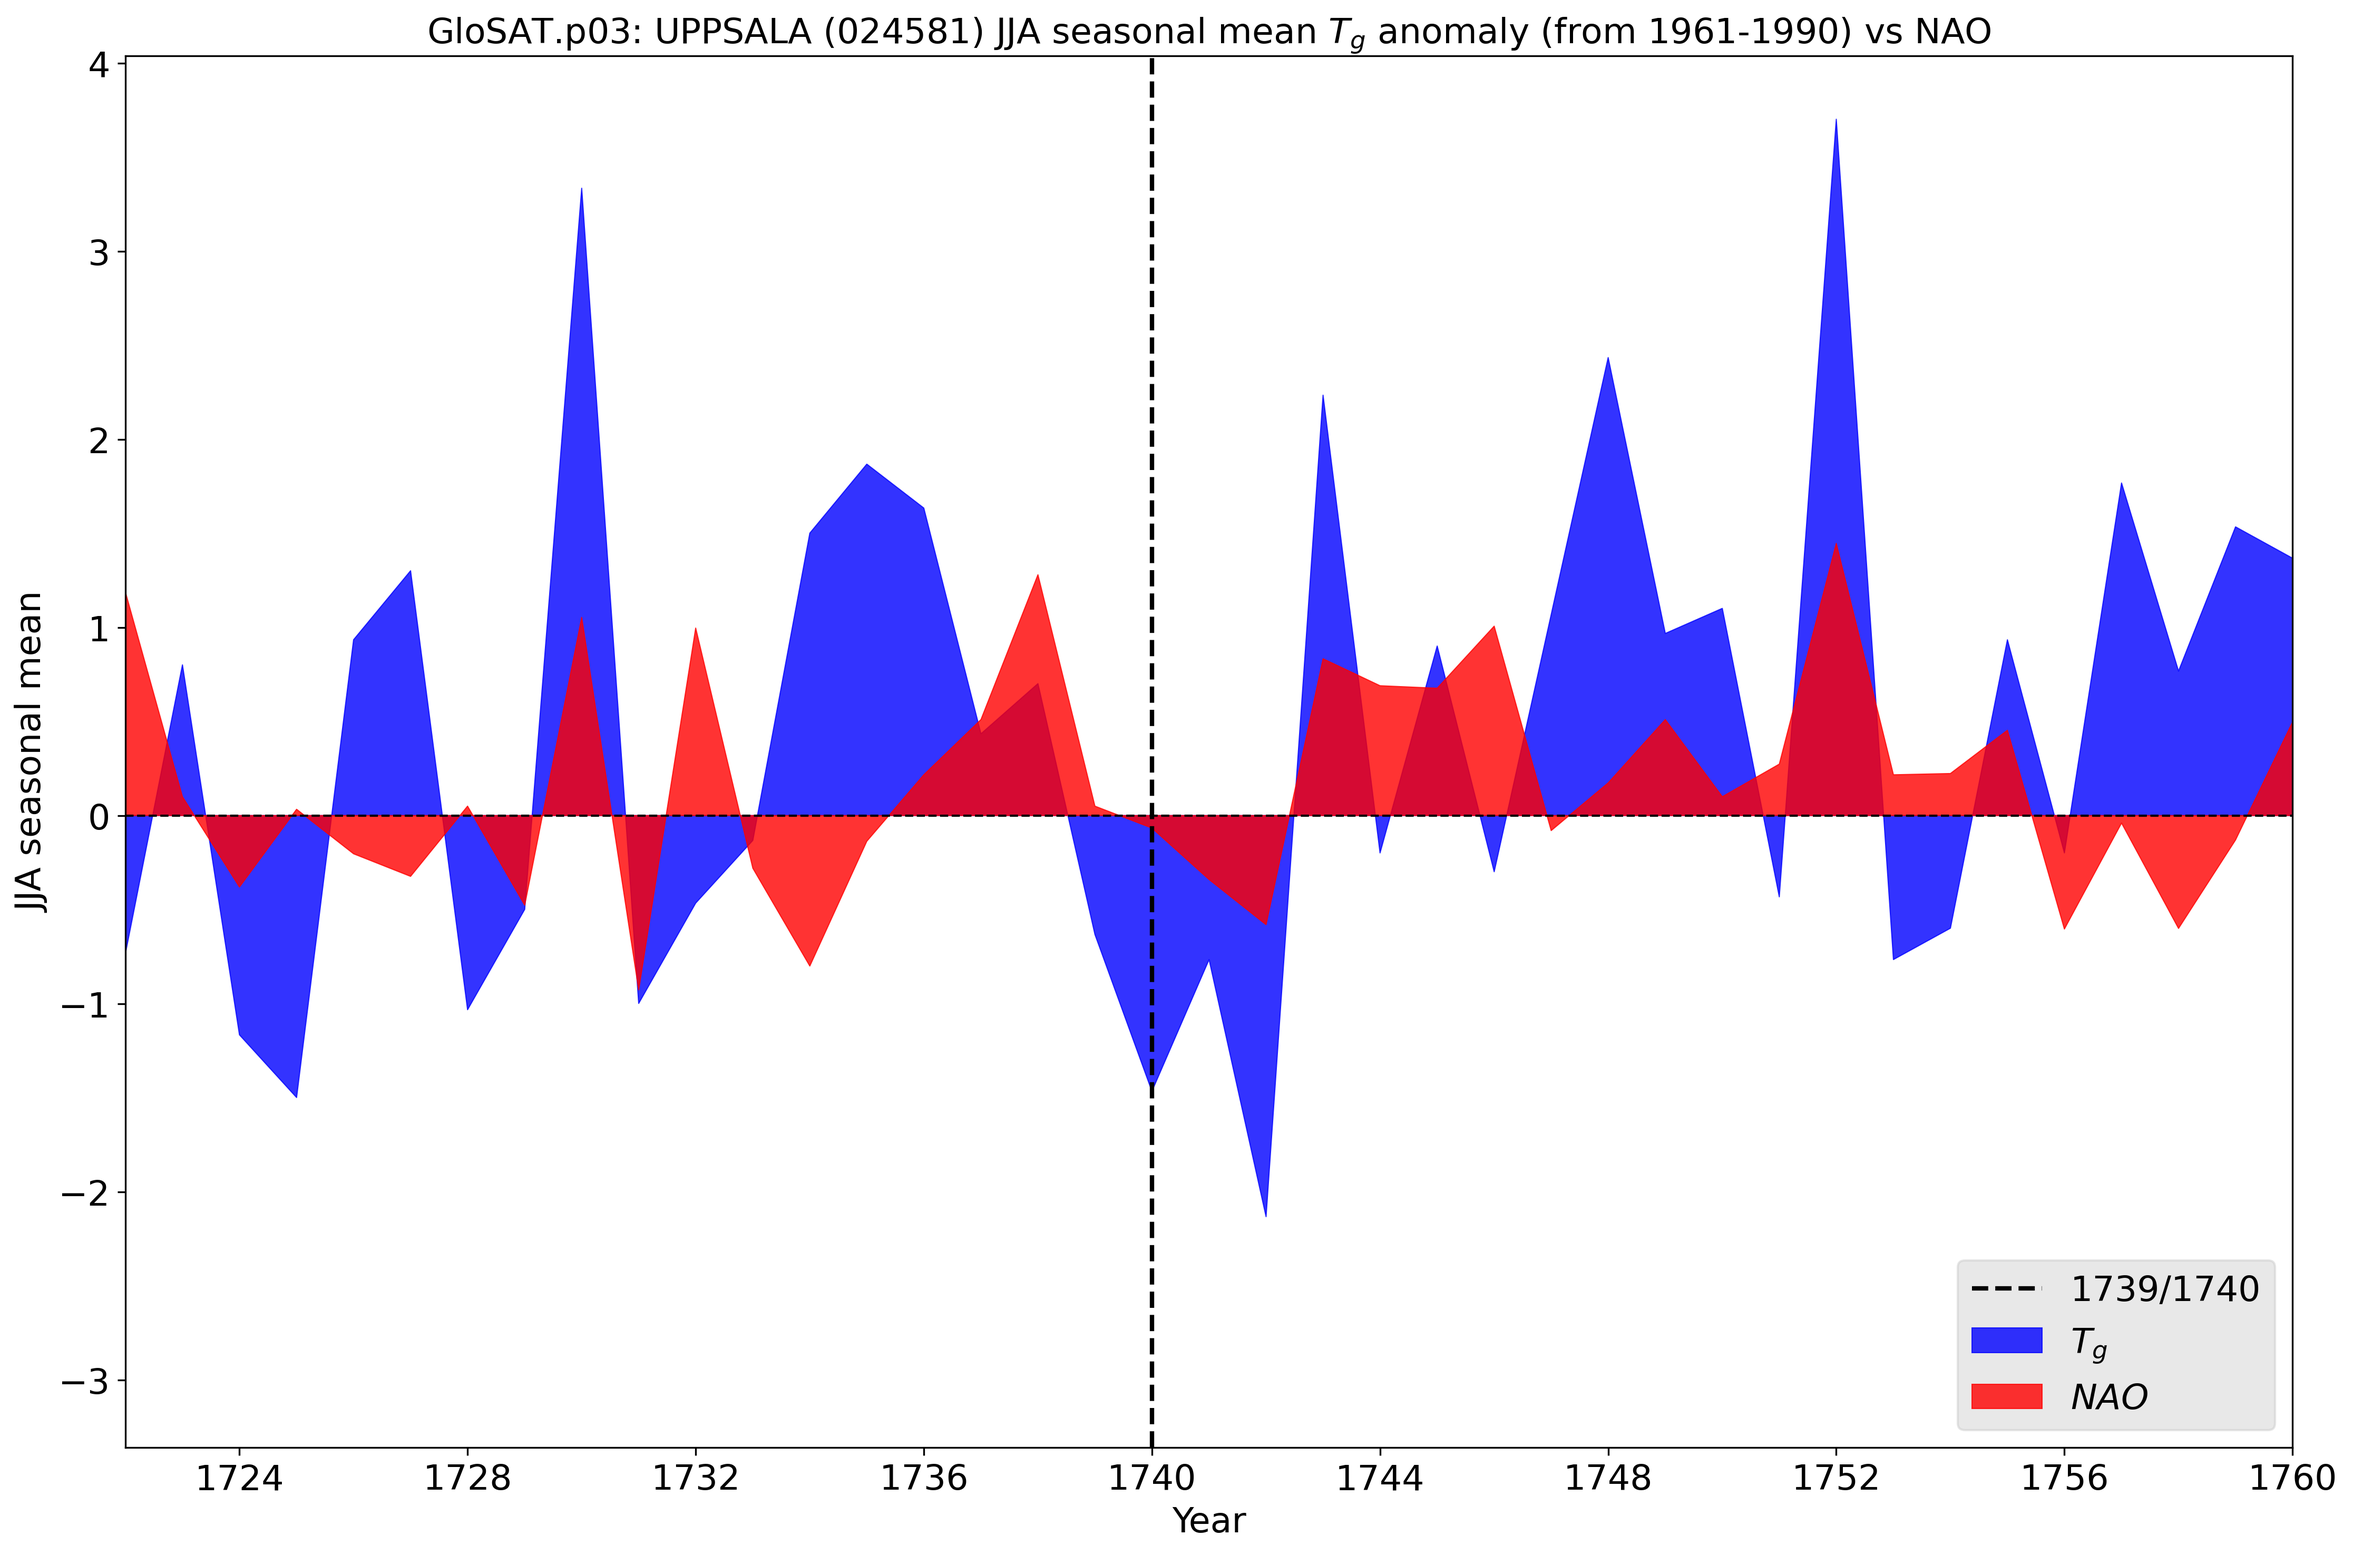
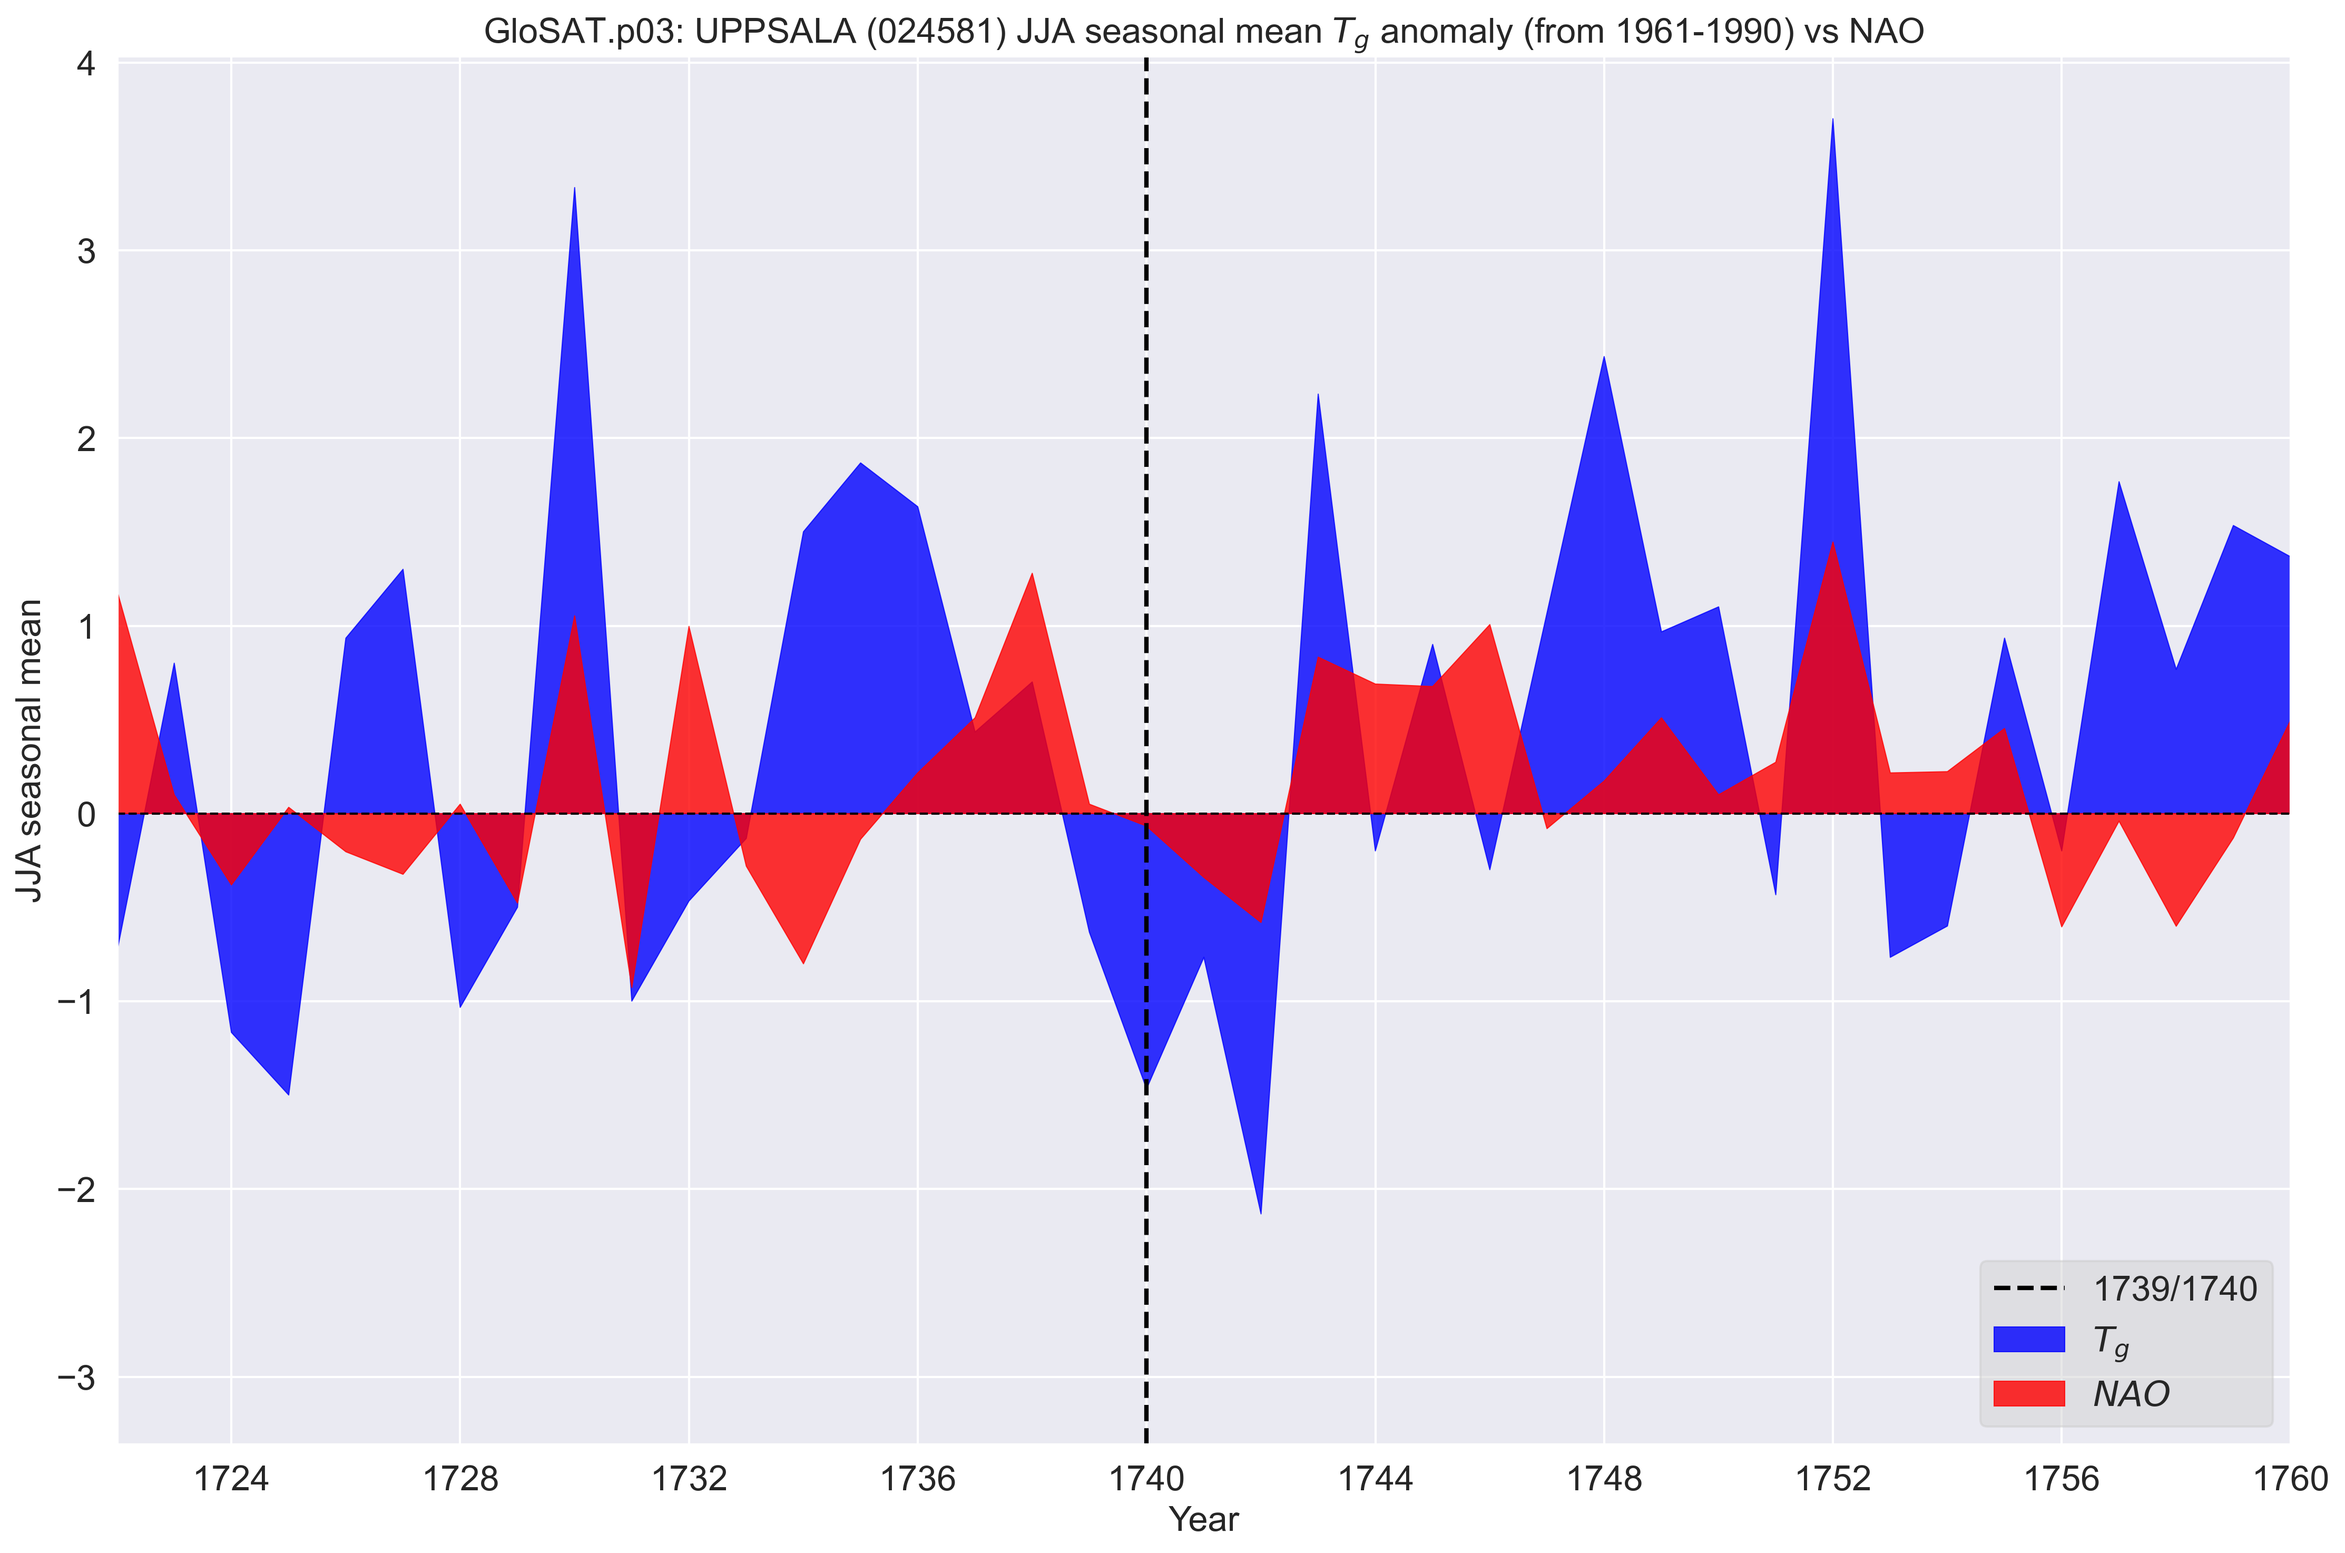
Apply Seaborn graphics

diff --git a/uppsala-seasonal-means-and-nao.py b/uppsala-seasonal-means-and-nao.py
@@ -31,9 +31,9 @@ from netCDF4 import Dataset, num2date, date2num
 # Plotting libraries:
 import matplotlib
 import matplotlib.pyplot as plt; plt.close('all')
-import matplotlib.cm as cm
-from matplotlib import colors as mcol
-from matplotlib.cm import ScalarMappable
+#import matplotlib.cm as cm
+#from matplotlib import colors as mcol
+#from matplotlib.cm import ScalarMappable
 from pandas.plotting import register_matplotlib_converters
 register_matplotlib_converters()
 from matplotlib import rcParams
@@ -46,7 +46,7 @@ from matplotlib import rcParams
 #from mpl_toolkits.mplot3d import Axes3D
 #from mpl_toolkits.mplot3d import proj3d
 #import cmocean
-#import seaborn as sns; sns.set()
+import seaborn as sns; sns.set()
 
 # OS libraries:
 import os
@@ -95,7 +95,6 @@ warnings.filterwarnings("ignore", message="numpy.ufunc size changed")
 
 #------------------------------------------------------------------------------
 import filter_cru_dft as cru # CRU DFT filter
-#import filter_cru_dft as cru_filter # CRU DFT filter
 #------------------------------------------------------------------------------
 
 #------------------------------------------------------------------------------
@@ -119,6 +118,7 @@ use_anomalies = True
 
 nsmooth = 60                 # 5yr MA monthly
 nfft = 16                    # power of 2 for the DFT
+loess_frac = 0.2             # LOESS window 
 
 station_code = '024581'     # Uppsala 
 
@@ -129,8 +129,6 @@ station_code = '024581'     # Uppsala
 if use_dark_theme == True:
     
     matplotlib.rcParams['text.usetex'] = False
-#    rcParams['font.family'] = 'sans-serif'
-#    rcParams['font.sans-serif'] = ['Avant Garde', 'Lucida Grande', 'Verdana', 'DejaVu Sans' ]
     plt.rc('text',color='white')
     plt.rc('lines',color='white')
     plt.rc('patch',edgecolor='white')
@@ -147,22 +145,22 @@ if use_dark_theme == True:
     
 else:
 
-    matplotlib.rcParams['text.usetex'] = False
-#    rcParams['font.family'] = 'sans-serif'
-#    rcParams['font.sans-serif'] = ['Avant Garde', 'Lucida Grande', 'Verdana', 'DejaVu Sans' ]
-    plt.rc('text',color='black')
-    plt.rc('lines',color='black')
-    plt.rc('patch',edgecolor='black')
-    plt.rc('grid',color='lightgray')
-    plt.rc('xtick',color='black')
-    plt.rc('ytick',color='black')
-    plt.rc('axes',labelcolor='black')
-    plt.rc('axes',facecolor='white')    
-    plt.rc('axes',edgecolor='black')
-    plt.rc('figure',facecolor='white')
-    plt.rc('figure',edgecolor='white')
-    plt.rc('savefig',edgecolor='white')
-    plt.rc('savefig',facecolor='white')
+    print('using Seasborn graphics ...')
+    
+#    matplotlib.rcParams['text.usetex'] = False
+#    plt.rc('text',color='black')
+#    plt.rc('lines',color='black')
+#    plt.rc('patch',edgecolor='black')
+#    plt.rc('grid',color='lightgray')
+#    plt.rc('xtick',color='black')
+#    plt.rc('ytick',color='black')
+#    plt.rc('axes',labelcolor='black')
+#    plt.rc('axes',facecolor='white')    
+#    plt.rc('axes',edgecolor='black')
+#    plt.rc('figure',facecolor='white')
+#    plt.rc('figure',edgecolor='white')
+#    plt.rc('savefig',edgecolor='white')
+#    plt.rc('savefig',facecolor='white')
 
 # Calculate current time
 
@@ -240,7 +238,6 @@ station_name = df['stationname'].unique()[0]
     
 # SET: time axis container
         
-# df_yearly = pd.DataFrame({'year': np.arange( 1780, 2021 )}) # 1780-2020 inclusive
 df_yearly = pd.DataFrame({'year': np.arange( 1678, 2022 )}) # 1678-2020 inclusive
 dt = df_yearly.merge(df, how='left', on='year')
     
@@ -282,8 +279,8 @@ df_yearly_sd = pd.DataFrame({'Tg':df_xr_resampled_sd.Tg.values}, index = df_xr_r
    
 # CALCULATE: LOESS fit (use Pandas rolling to interpolate and
     
-lowess = sm.nonparametric.lowess(df['Tg'].values[mask], df['Tg'].index[mask], frac=0.1)       
-da = pd.DataFrame({'LOESS':lowess[:,1]}, index=df['Tg'].index[mask])
+loess = sm.nonparametric.lowess(df['MA'].values[mask], df['MA'].index[mask], frac=loess_frac)       
+da = pd.DataFrame({'LOESS':loess[:,1]}, index=df['MA'].index[mask])
 df['LOESS'] = da                     
 
 # CALCULATE: FFT low pass
@@ -454,7 +451,7 @@ else:
 # PLOT: seasonal timeseries
 #------------------------------------------------------------------------------    
     
-print('plotting DJF seasonal timeseries ... ')   
+print('plotting seasonal timeseries ... ')   
                             
 figstr = station_code + '-' + 'anomaly' + '-' + 'vs' + '-' + 'nao' + '-' 'timeseries' + '-' + season + '.png'
 titlestr = 'GloSAT.p03: ' + station_name.upper() + ' (' + station_code + ') ' + season + ' seasonal mean $T_g$ anomaly (from 1961-1990) vs NAO'
@@ -474,7 +471,7 @@ fig.tight_layout()
 plt.savefig(figstr, dpi=300, bbox_inches='tight')
 plt.close('all')
 
-print('plotting DJF seasonal timeseries ( 130 intervals ) ... ')   
+print('plotting seasonal timeseries ( 130 intervals ) ... ')   
                             
 figstr = station_code + '-' + 'anomaly' + '-' + 'vs' + '-' + 'nao' + '-' 'timeseries' + '-' + season + '-' + '130 years' + '.png'
 titlestr = 'GloSAT.p03: ' + station_name.upper() + ' (' + station_code + ') ' + season + ' seasonal mean $T_g$ anomaly (from 1961-1990) vs NAO'
@@ -502,7 +499,7 @@ plt.close('all')
 # PLOT: seasonal correlation
 #------------------------------------------------------------------------------    
 
-print('plotting DJF seasonal correlation ... ')   
+print('plotting seasonal correlation ... ')   
    
 figstr = station_code + '-' + 'anomaly' + '-' + 'vs' + '-' + 'nao' + '-' 'correlation' + '-' + season + '.png'
 titlestr = 'GloSAT.p03: ' + station_name.upper() + ' (' + station_code + ') ' + season + ' seasonal mean $T_g$ anomaly (from 1961-1990) vs NAO'
